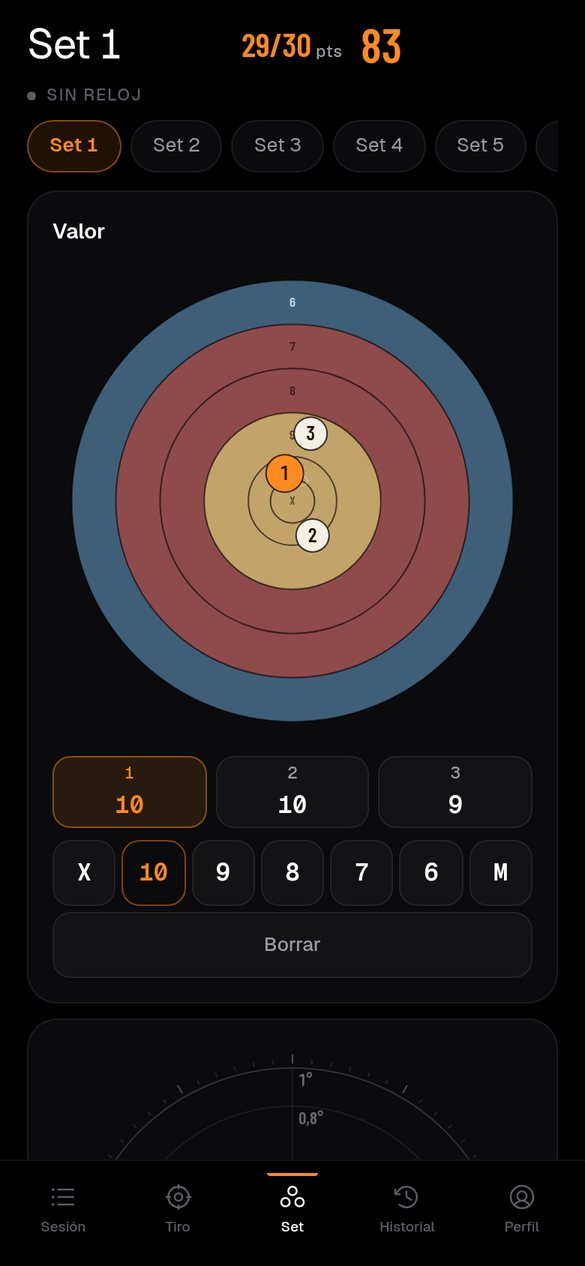
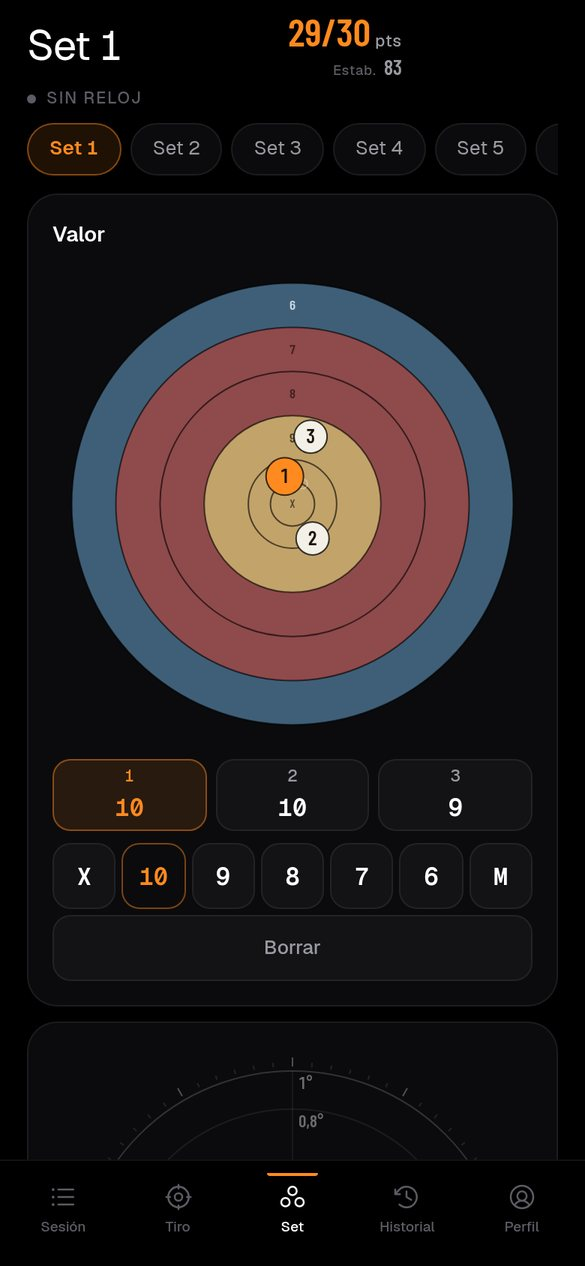
ArcheryWatch: fuera la etiqueta Set·N de M en Tiro y cabecera de Set con puntos y estabilidad discreta — 4.45 (103)

diff --git a/mobile/index.html b/mobile/index.html
@@ -241,7 +241,11 @@
   .setbar button { background:var(--surface); color:var(--txt-2); border:1px solid var(--line); border-radius:999px; font-size:13px; padding:7px 14px; white-space:nowrap; }
   .setbar button.sel { background:var(--acc-soft); color:var(--acc); border-color:var(--acc-line); font-weight:600; }
   .setHead { display:flex; align-items:center; gap:12px; flex-shrink:0; }
-  .setHead .setVal { font-size:32px; }
+  .setHead { flex-direction:column; align-items:flex-end; gap:4px; margin-left:auto; }
+  .setHead .setPts { font-size:26px; color:var(--txt); }
+  .setHead .setPts.on { color:var(--acc); }
+  .setStab { display:flex; align-items:baseline; gap:5px; font:500 11px/1 var(--font); letter-spacing:.04em; color:var(--txt-3); }
+  .setStab b { font:600 14px/1 var(--num); color:var(--txt-2); letter-spacing:0; }
 
   /* Sesión */
   .hero { display:flex; align-items:center; gap:16px; }
@@ -488,7 +492,7 @@
 <body>
 <header>
   <h1><span id="title">Sesión</span><small id="subtitle"></small></h1>
-  <div class="setHead" id="setHead" hidden><span class="setPts" id="setHeadPts"><b id="setHeadScore">–</b><small>pts</small></span><b class="setVal" id="setHeadStab">–</b></div>
+  <div class="setHead" id="setHead" hidden><span class="setPts" id="setHeadPts"><b id="setHeadScore">–</b><small>pts</small></span><span class="setStab"><small>Estab.</small><b id="setHeadStab">–</b></span></div>
   <div class="stepper">
     <button class="btn" id="prev" aria-label="Flecha anterior"><svg class="ico" viewBox="0 0 256 256" fill="currentColor" aria-hidden="true"><path d="M165.66,202.34a8,8,0,0,1-11.32,11.32l-80-80a8,8,0,0,1,0-11.32l80-80a8,8,0,0,1,11.32,11.32L91.31,128Z"/></svg></button>
     <button class="btn" id="next" aria-label="Flecha siguiente"><svg class="ico" viewBox="0 0 256 256" fill="currentColor" aria-hidden="true"><path d="M181.66,133.66l-80,80a8,8,0,0,1-11.32-11.32L164.69,128,90.34,53.66a8,8,0,0,1,11.32-11.32l80,80A8,8,0,0,1,181.66,133.66Z"/></svg></button>
@@ -1057,7 +1061,7 @@ function render() {
     renderSetHead(S, si);
   } else {
     document.getElementById('title').textContent = `${data.shots[cur].candidate?'Candidato':'Flecha'} ${S[si].indexOf(cur) + 1}`;
-    document.getElementById('subtitle').textContent = setLabel(S,si) + ' · ' + (S[si].indexOf(cur) + 1) + ' de ' + S[si].length + (historyMode ? ` · ${fmtDate(histId)}` : '');
+    document.getElementById('subtitle').textContent = historyMode ? fmtDate(histId) : '';
   }
   if (view === 'Session') renderSession(S);
   else if (view === 'Set') renderSet(S, si);
@@ -1075,7 +1079,7 @@ function renderSetHead(S, si) {
   document.getElementById('setHeadPts').classList.toggle('on', !!pts.scored);
   const stabEl = document.getElementById('setHeadStab');
   stabEl.textContent = stab == null ? '–' : String(stab);
-  stabEl.style.color = stab != null && stab >= 80 ? 'var(--acc)' : 'var(--txt)';
+
 }
 
 let scoreFocus = null;

diff --git a/mobile/sw.js b/mobile/sw.js
@@ -1,5 +1,5 @@
 // ArcheryWatch service worker: app shell cache-first, sesiones network-first.
-const C = 'aw-v108';
+const C = 'aw-v109';
 self.addEventListener('install', e => { self.skipWaiting(); e.waitUntil(caches.open(C).then(c =>
   c.addAll(['./', './index.html', './session-model.js', './trace-geom.js', './backup.js', './score.js', './compare.js', './goals.js', './training.js', './studio.js', './manifest.json', './icon-192.png', './icon-512.png', './fonts/Geist-Variable.woff2', './fonts/GeistMono-Variable.woff2', './fonts/BarlowCondensed-600.woff2', './photos/campo.js', './photos/diana.js', './photos/visor.js']))); });
 self.addEventListener('activate', e => e.waitUntil(caches.keys().then(ks =>

diff --git a/android/src/com/archerywatch/app/LiveService.java b/android/src/com/archerywatch/app/LiveService.java
@@ -185,7 +185,7 @@ public class LiveService extends Service {
         Map<String,Object> values=new java.util.HashMap<>();values.put("status",STATUS);
         values.put("pending",inbox==null?0:inbox.size());values.put("commands",outbox==null?0:outbox.size());
         values.put("connected", STATUS != null && STATUS.contains("listo"));
-        values.put("version",102);
+        values.put("version",103);
         if(instance!=null){values.put("receivedAt",instance.diagnostics.getLong("receivedAt",0));values.put("kind",instance.diagnostics.getString("kind",""));}
         return MainActivity.toJson(values);
     }
